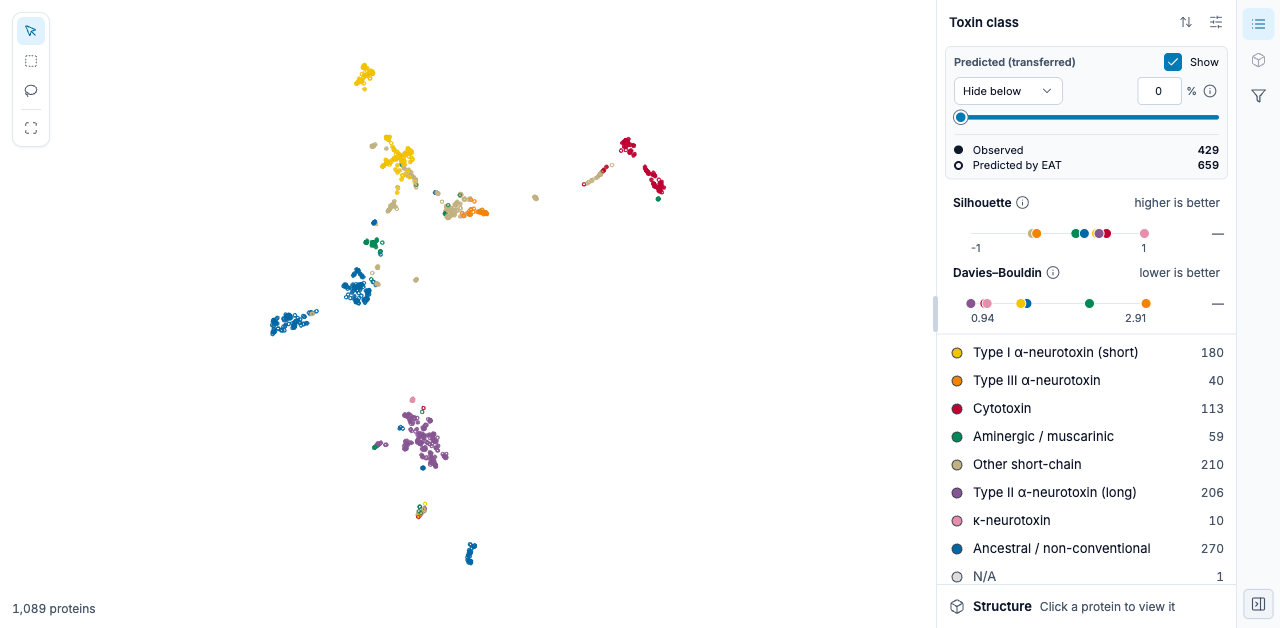
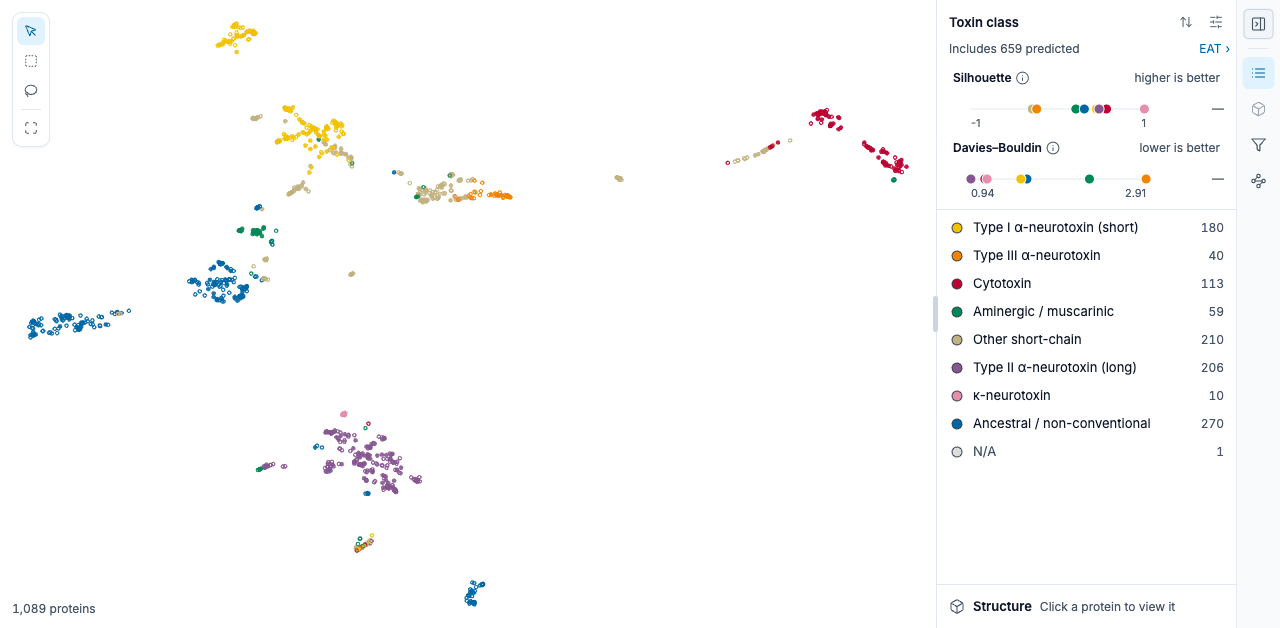
docs(explore): plot always fills its area; Filter on the desktop rail

diff --git a/docs/explore/scatterplot.md b/docs/explore/scatterplot.md
@@ -101,8 +101,8 @@ protein.
 
 ### The selection bar
 
-While proteins are selected, a bar at the bottom of the plot shows how many and what you can do
-with them:
+While proteins are selected, a bar beside the protein count, at the bottom of the plot, shows how
+many and what you can do with them:
 
 - **Show only these** narrows the plot to the selection. Each time you do it is one step of the
   `Showing only … · K steps` chip; its ✕ (**Show all proteins**) brings every protein back.
@@ -128,12 +128,13 @@ text field, where these keys edit the text.
 
 Points close together have similar embeddings - often indicating similar structure, function, or evolutionary history.
 
-Both axes share one scale, so a cluster keeps its shape whatever the size of the window: the plot
-fits the data's extent inside the plot area and centres it, and a window wider than the data shows
-margin at the sides (a taller one, above and below). Opening or closing the sidebar changes how
-much room the plot has, never the clusters' proportions. Exported images use the same rule, so a
-figure has the shape you see on screen. A projection whose first axis spans much more than its
-second, as PCA often does, shows as a band rather than filling the plot.
+The plot always fills its area. Each axis stretches on its own: the data's width spans the plot's
+width, and its height spans the plot's height. The two axes are not on the same scale, so a
+cluster's shape follows the shape of the plot.
+
+Collapsing the sidebar does not stretch the plot wider. It keeps at most the width it had beside the
+open sidebar and moves to the middle of the freed space. Exported images fill their frame the same
+way.
 
 ### Point Colors
 
@@ -152,11 +153,15 @@ Hover over a point to see a tooltip with details about that protein:
 Protein name, gene name, and UniProtKB ID are tooltip-only and don't appear in the
 [Color by menu](/explore/controls#color-by).
 
-When the structure cannot be seen (on a desktop, while the sidebar is collapsed with the structure
-docked in it), a click on a point pins its tooltip with a **View structure** button, which opens
-the sidebar and shows that protein's structure. On a phone, a tap pins the tooltip and **View
-structure** expands the structure sheet. A pinned tooltip closes on **Escape**, a press outside
-the plot, the next click, or a pan or zoom.
+When the structure cannot be seen, a click on a point pins its tooltip with a **View structure**
+button. On a desktop that is while the structure is hidden with the rail's **Structure** button, or
+docked in a collapsed sidebar; **View structure** shows that protein's structure, opening the
+sidebar if needed. On a phone, a tap pins the tooltip and **View structure** expands the structure
+sheet.
+
+You can move the mouse onto a pinned tooltip to reach its button. A pinned tooltip closes when the
+mouse rests elsewhere (on another protein, on empty space or off the plot), on **Escape**, a press
+outside the plot, the next click, or a pan or zoom.
 
 ### Focusing a Category
 

diff --git a/docs/explore/controls.md b/docs/explore/controls.md
@@ -123,8 +123,9 @@ where it works) and **Take the tour** (the guided tour of the page). On a phone 
 ## View bar
 
 The view bar sits under the app bar and holds what changes the picture: **Projection**,
-**Color by**, **Contours** and **Filter**. When the window is too narrow for all of them, Contours
-and then Filter move into **More**.
+**Color by** and **Contours**. On a tablet it also holds **Filter**; on a desktop, Filter is in
+the sidebar's rail. When the window is too narrow for all of them, Contours and then Filter move
+into **More**.
 
 ### Projection
 
@@ -298,13 +299,14 @@ it still shows contours on a device that supports them.
 ### Filter
 
 **Filter** opens the Filter panel in the sidebar, in place of the legend, where you build a query
-from annotation values. While a filter is applied the button shows how many conditions it has.
-[Filtering](/explore/filter) describes the panel.
+from annotation values. On a desktop it is the rail's Filter button, which carries a dot while a
+filter is applied. On a tablet it is in the view bar, and shows how many conditions are applied.
+On a phone, Filter is in **More**. [Filtering](/explore/filter) describes the panel.
 
 ### More
 
 **More** appears when the window is too narrow for the whole view bar and holds what no longer fits:
-the contour modes, then Filter. A dot on it says that something inside is on (contours, or an
+the contour modes, then (on a tablet) Filter. A dot on it says that something inside is on (contours, or an
 applied filter). On a phone, **More** opens a sheet that also holds Import, Export, Theme,
 Help & shortcuts and Feedback.
 
@@ -326,7 +328,8 @@ The tool strip in the plot's corner picks what a drag on the plot does:
 
 ### Selection bar
 
-While proteins are selected, a bar at the bottom of the plot shows how many and offers:
+While proteins are selected, a bar beside the protein count, at the bottom of the plot, shows how
+many and offers:
 
 - **Show only these** hides every other protein. The plot's status corner then shows a
   **Showing only** chip; its ✕ (**Show all proteins**) brings them back.

diff --git a/docs/explore/exporting.md b/docs/explore/exporting.md
@@ -55,6 +55,11 @@ Dots [grow as you zoom in](/explore/scatterplot#navigation). Quick Export keeps 
 so its dots match the size you see on screen. The Figure Editor always renders the full view, so its
 dots are drawn at their unzoomed size.
 
+### Plot shape in images
+
+As on screen, the plot fills the image: each axis stretches to the image's width or height. A wide
+image stretches the clusters sideways, a tall one stretches them up and down.
+
 ::: warning Contours are not exported yet
 [Contours](/explore/controls#contours) are not drawn in exported images: Quick Export PNG and
 PDF, the Figure Editor and its zoom insets show the points only. The Figure Editor preview shows

diff --git a/docs/explore/figure-editor.md b/docs/explore/figure-editor.md
@@ -25,7 +25,8 @@ current view at 2048 × 1024 px and does not use the editor's settings.
 
 The editor always renders the full view, what a double-click on the plot shows, not your current
 zoom. Its dots are therefore drawn at their unzoomed size, while Quick Export keeps the zoom and the
-larger dots that come with it. [Contours](/explore/controls#contours) are not drawn in the
+larger dots that come with it. The plot fills the figure's frame, each axis stretched, as it fills
+its area on screen. [Contours](/explore/controls#contours) are not drawn in the
 preview or the exported figure yet; see [Exporting Results](/explore/exporting#dot-size-in-images).
 
 ## Journal Presets
